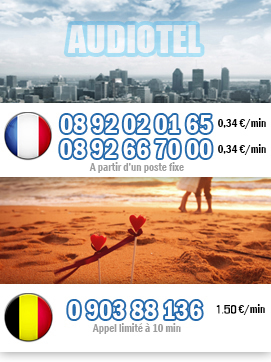
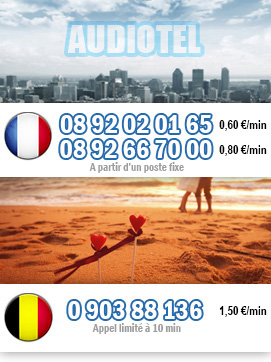
update audiotel price

Changed region(s): [[0.797, 0.8204, 1.0, 0.8812], [0.797, 0.3039, 1.0, 0.3646], [0.797, 0.395, 1.0, 0.4254]]

diff --git a/tarotdelamour/tarot_amour_fin_modele.php b/tarotdelamour/tarot_amour_fin_modele.php
@@ -501,7 +501,7 @@ font-weight: 400;width:78%;" id="Message" name="message" placeholder="Message" r
             </div>
             <div class="widget-content clearfix">
                 <a href="http://[()ROOT_URL()]/voyance-sans-cb">
-                    <img src="../images_voyance/banniere/audiotel.gif" />
+                    <img src="../images_voyance/banniere/audiotel.jpg" />
                 </a>
             </div>
         </aside>

diff --git a/tarotdelamour/tarot_amour_jour_modele.php b/tarotdelamour/tarot_amour_jour_modele.php
@@ -508,7 +508,7 @@ font-weight: 400;width:78%;" id="Message" name="message" placeholder="Message" r
             </div>
             <div class="widget-content clearfix">
                 <a href="http://[()ROOT_URL()]/voyance-sans-cb">
-                    <img src="../images_voyance/banniere/audiotel.gif" />
+                    <img src="../images_voyance/banniere/audiotel.jpg" />
                 </a>
             </div>
         </aside>

diff --git a/tarotdelamour/tarot_amour_synthese_modele.php b/tarotdelamour/tarot_amour_synthese_modele.php
@@ -508,7 +508,7 @@ font-weight: 400;width:78%;" id="Message" name="message" placeholder="Message" r
             </div>
             <div class="widget-content clearfix">
                 <a href="http://[()ROOT_URL()]/voyance-sans-cb">
-                    <img src="../images_voyance/banniere/audiotel.gif" />
+                    <img src="../images_voyance/banniere/audiotel.jpg" />
                 </a>
             </div>
         </aside>

diff --git a/tarotdelamour/tarot_amour_tirage_modele.php b/tarotdelamour/tarot_amour_tirage_modele.php
@@ -508,7 +508,7 @@ font-weight: 400;width:78%;" id="Message" name="message" placeholder="Message" r
             </div>
             <div class="widget-content clearfix">
                 <a href="http://[()ROOT_URL()]/voyance-sans-cb">
-                    <img src="../images_voyance/banniere/audiotel.gif" />
+                    <img src="../images_voyance/banniere/audiotel.jpg" />
                 </a>
             </div>
         </aside>

diff --git a/tarotdelamour/tarot_amour_vue_ensemble_modele.php b/tarotdelamour/tarot_amour_vue_ensemble_modele.php
@@ -507,7 +507,7 @@ font-weight: 400;width:78%;" id="Message" name="message" placeholder="Message" r
             </div>
             <div class="widget-content clearfix">
                 <a href="http://[()ROOT_URL()]/voyance-sans-cb">
-                    <img src="../images_voyance/banniere/audiotel.gif" />
+                    <img src="../images_voyance/banniere/audiotel.jpg" />
                 </a>
             </div>
         </aside>

diff --git a/include/bloc-droit-secondaire.php b/include/bloc-droit-secondaire.php
@@ -36,7 +36,7 @@ if ($path == 'numerologie-gratuite'){ $horoscope_type = 'du-mois'; $typetext = '
 
 									<div class="widget-content clearfix">
 										<a href="http://<?= ROOT_URL ?>/voyance-sans-cb">
-											<img src="images_voyance/banniere/audiotel.gif" width="271" height="362"/>
+											<img src="images_voyance/banniere/audiotel.jpg" width="271" height="362"/>
 										</a>
 									</div>
 

diff --git a/include/bloc-droit-secondaire-2.php b/include/bloc-droit-secondaire-2.php
@@ -33,7 +33,7 @@
 
 									<div class="widget-content clearfix">
 										<a href="http://<?= ROOT_URL ?>/voyance-sans-cb">
-											<img src="images_voyance/banniere/audiotel.gif" width="271" height="362"/>
+											<img src="images_voyance/banniere/audiotel.jpg" width="271" height="362"/>
 										</a>
 									</div>
 
